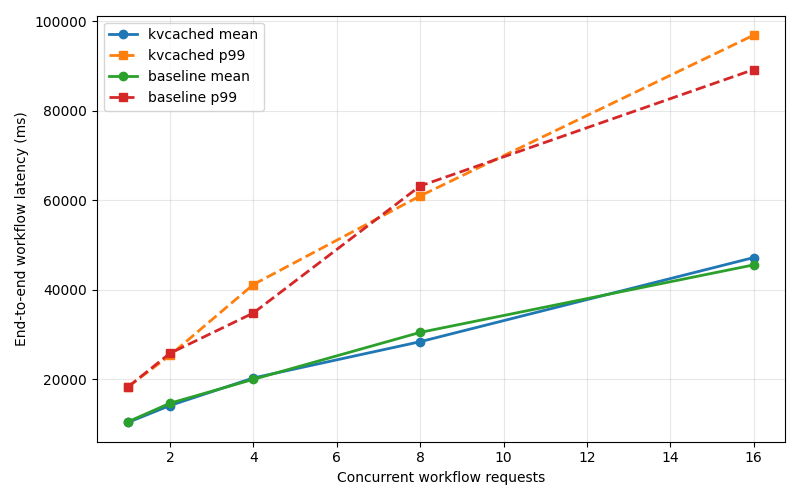
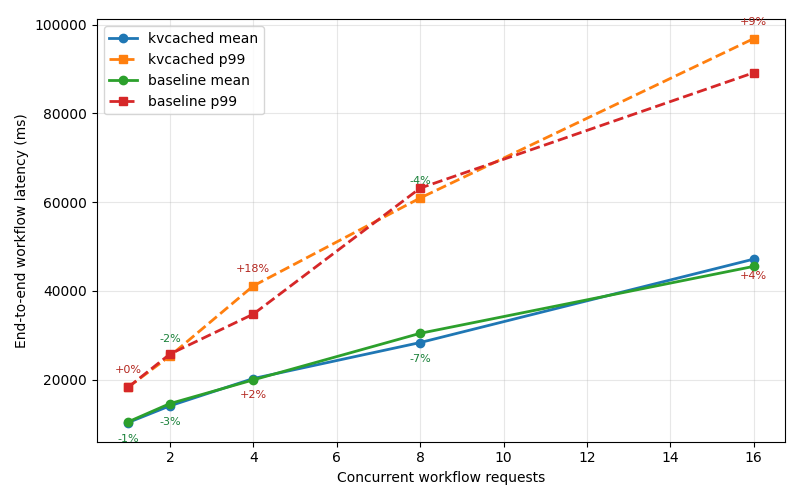
64-Prompt TTFT Sanity Check

diff --git a/benchmarks/bench_dgx_spark/plot_results.py b/benchmarks/bench_dgx_spark/plot_results.py
@@ -51,13 +51,53 @@ def _valid(rows: list[dict[str, Any]]) -> list[dict[str, Any]]:
     ]
 
 
+def _annotate_delta(
+    phase_rows: dict[str, list[dict[str, Any]]],
+    metric: str,
+    stat: str,
+    yoffset: int,
+) -> None:
+    """Annotate kvcached percentage delta relative to baseline."""
+    if "kvcached" not in phase_rows or "baseline" not in phase_rows:
+        return
+
+    value_key = f"{stat}_{metric}_ms"
+    baseline_by_c = {
+        int(row["concurrency"]): float(row[value_key])
+        for row in phase_rows["baseline"]
+        if value_key in row and float(row[value_key]) > 0
+    }
+    kvcached_by_c = {
+        int(row["concurrency"]): float(row[value_key])
+        for row in phase_rows["kvcached"]
+        if value_key in row
+    }
+
+    for concurrency in sorted(set(baseline_by_c) & set(kvcached_by_c)):
+        baseline = baseline_by_c[concurrency]
+        kvcached = kvcached_by_c[concurrency]
+        delta = (kvcached - baseline) / baseline * 100.0
+        color = "#188038" if delta <= 0 else "#b3261e"
+        plt.annotate(
+            f"{delta:+.0f}%",
+            xy=(concurrency, kvcached),
+            xytext=(0, yoffset),
+            textcoords="offset points",
+            ha="center",
+            fontsize=8,
+            color=color,
+        )
+
+
 def _plot_metric(results_dir: Path, phases: list[str], metric: str, ylabel: str, output: Path) -> None:
     plt.figure(figsize=(8, 5))
     plotted = False
+    phase_rows: dict[str, list[dict[str, Any]]] = {}
     for phase in phases:
         rows = _valid(_load_phase(results_dir, phase))
         if not rows:
             continue
+        phase_rows[phase] = rows
         xs = [row["concurrency"] for row in rows]
         mean_key = f"mean_{metric}_ms"
         p99_key = f"p99_{metric}_ms"
@@ -70,6 +110,8 @@ def _plot_metric(results_dir: Path, phases: list[str], metric: str, ylabel: str,
     if not plotted:
         raise SystemExit(f"no valid rows found for {metric}")
 
+    _annotate_delta(phase_rows, metric, "mean", -14)
+    _annotate_delta(phase_rows, metric, "p99", 10)
     plt.xlabel("Concurrent workflow requests")
     plt.ylabel(ylabel)
     plt.grid(True, alpha=0.3)

diff --git a/benchmarks/bench_dgx_spark/README.md b/benchmarks/bench_dgx_spark/README.md
@@ -120,6 +120,19 @@ results are regenerated and the prompt token distribution is recorded.
 |:---:|:---:|
 | ![TTFT](results/ttft_vs_concurrency.png) | ![E2E](results/e2e_vs_concurrency.png) |
 
+Labels on the kvcached mean and P99 points show the percentage delta relative
+to the matching baseline point at the same concurrency; negative values mean
+lower latency with kvcached.
+
+#### 64-prompt TTFT check
+
+![TTFT comparison with 16 and 64 prompts](results_np64/ttft_np16_vs_np64.png)
+
+This check reruns C=1, 2, and 4 with 64 prompts per level.  The higher-sample
+run removes the apparent low-concurrency P99 TTFT dip seen in the 16-prompt
+run, which indicates that the earlier C=1 to C=4 tail shape was dominated by
+small-sample tail variance rather than a stable latency trend.
+
 ### Key Observations
 
 - **P99 TTFT** is lower with kvcached at every tested concurrency.  The largest
@@ -174,10 +187,13 @@ benchmarks/bench_dgx_spark
 ├── plot_results.py           # generate comparison plots from results/
 ├── run_benchmark.sh          # end-to-end: launch + bench + stop
 ├── stop.sh                   # kill all vllm serve processes
-└── results/
-    ├── kvcached/             # per-concurrency JSON results
-    ├── baseline/             # per-concurrency JSON results
-    ├── summary.csv           # combined metrics table
-    ├── ttft_vs_concurrency.png
-    └── e2e_vs_concurrency.png
+├── results/
+│   ├── kvcached/             # per-concurrency JSON results
+│   ├── baseline/             # per-concurrency JSON results
+│   ├── summary.csv           # combined metrics table
+│   ├── ttft_vs_concurrency.png
+│   └── e2e_vs_concurrency.png
+└── results_np64/
+    ├── summary.csv           # 64-prompt C=1/2/4 check
+    └── ttft_np16_vs_np64.png # TTFT comparison for 16 vs 64 prompts
 ```
